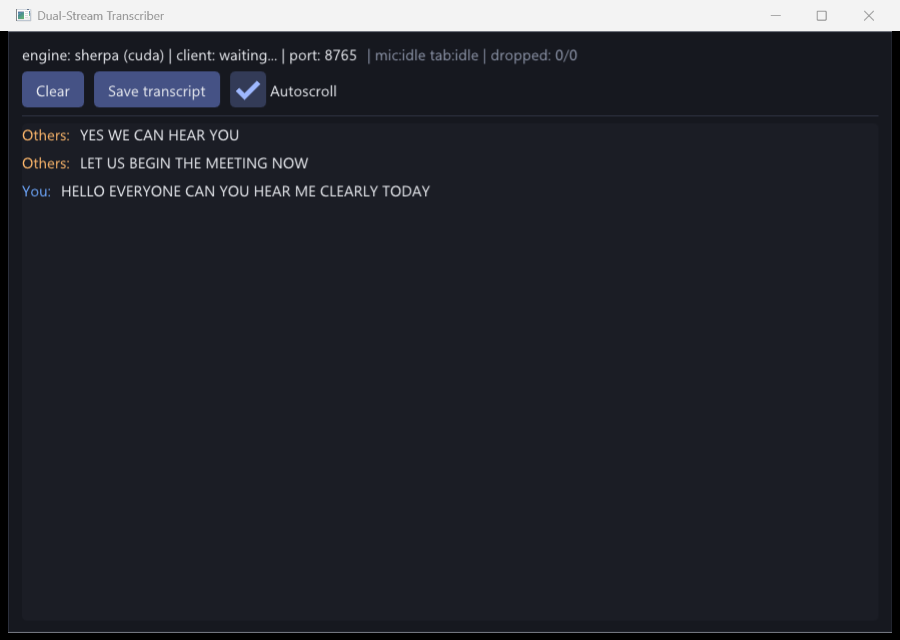
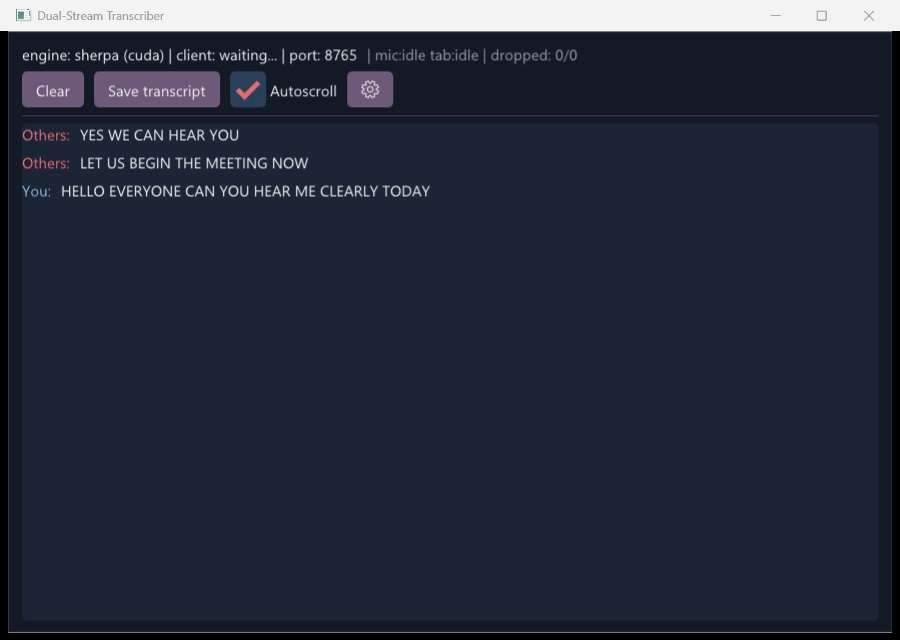
ui: dusk color palette (navy / plum / rose / coral)
User-chosen palette #355070 #6d597a #b56576 #e56b6f with the family
sand #eaac8b for warnings. Role mapping: navy surfaces and input
frames, plum buttons, rose pressed states, coral as the single accent
(checkmark, active states, Others lane); You lane is light navy so the
transcript lanes sit at the palette poles. README screenshot refreshed.

Claude-Session: https://claude.ai/code/session_01TXEqZFsGeUbS3S3m6UJCrM

Changed region(s): [[0.0, 0.0938, 0.3111, 0.2188], [0.3733, 0.0938, 0.4356, 0.1875], [0.0311, 0.25, 0.0622, 0.2812]]

diff --git a/desktop/src/ui/main_window.cpp b/desktop/src/ui/main_window.cpp
@@ -150,25 +150,29 @@ void applyThemeAndFont()
     style.ScrollbarRounding = 5.0f;
     style.ItemSpacing = ImVec2(10.0f, 8.0f);
     style.WindowPadding = ImVec2(14.0f, 12.0f);
-    // Cohesive dark-slate palette with indigo controls, replacing the stock
-    // grey theme. Transcript lane colors (blue/orange) live in runUi().
+    // Dusk palette chosen by the user: navy #355070, plum #6d597a, rose
+    // #b56576, coral #e56b6f (plus the family's sand #eaac8b for warnings).
+    // Role mapping: navy family carries surfaces and input frames, plum
+    // carries buttons, rose is the pressed state, and coral is the single
+    // bright accent (checkmarks, active highlights). Transcript lane colors
+    // live in runUi(): You = light navy, Others = coral.
     ImVec4* colors = style.Colors;
-    colors[ImGuiCol_WindowBg] = ImVec4(0.085f, 0.095f, 0.120f, 1.00f);
-    colors[ImGuiCol_ChildBg] = ImVec4(0.105f, 0.115f, 0.145f, 1.00f);
-    colors[ImGuiCol_Text] = ImVec4(0.92f, 0.93f, 0.95f, 1.00f);
-    colors[ImGuiCol_Border] = ImVec4(0.25f, 0.27f, 0.35f, 0.50f);
-    colors[ImGuiCol_FrameBg] = ImVec4(0.20f, 0.23f, 0.34f, 1.00f);
-    colors[ImGuiCol_FrameBgHovered] = ImVec4(0.26f, 0.30f, 0.44f, 1.00f);
-    colors[ImGuiCol_FrameBgActive] = ImVec4(0.31f, 0.36f, 0.53f, 1.00f);
-    colors[ImGuiCol_Button] = ImVec4(0.27f, 0.32f, 0.52f, 1.00f);
-    colors[ImGuiCol_ButtonHovered] = ImVec4(0.34f, 0.40f, 0.65f, 1.00f);
-    colors[ImGuiCol_ButtonActive] = ImVec4(0.42f, 0.49f, 0.78f, 1.00f);
-    colors[ImGuiCol_CheckMark] = ImVec4(0.62f, 0.72f, 1.00f, 1.00f);
-    colors[ImGuiCol_Separator] = ImVec4(0.25f, 0.27f, 0.35f, 0.60f);
-    colors[ImGuiCol_ScrollbarBg] = ImVec4(0.085f, 0.095f, 0.120f, 1.00f);
-    colors[ImGuiCol_ScrollbarGrab] = ImVec4(0.28f, 0.31f, 0.42f, 1.00f);
-    colors[ImGuiCol_ScrollbarGrabHovered] = ImVec4(0.36f, 0.40f, 0.55f, 1.00f);
-    colors[ImGuiCol_ScrollbarGrabActive] = ImVec4(0.44f, 0.50f, 0.70f, 1.00f);
+    colors[ImGuiCol_WindowBg] = ImVec4(0.075f, 0.102f, 0.149f, 1.00f);   // Darkened navy.
+    colors[ImGuiCol_ChildBg] = ImVec4(0.106f, 0.145f, 0.212f, 1.00f);    // Navy panel.
+    colors[ImGuiCol_Text] = ImVec4(0.941f, 0.933f, 0.949f, 1.00f);
+    colors[ImGuiCol_Border] = ImVec4(0.427f, 0.349f, 0.478f, 0.45f);     // Plum, translucent.
+    colors[ImGuiCol_FrameBg] = ImVec4(0.165f, 0.251f, 0.353f, 1.00f);    // Muted navy.
+    colors[ImGuiCol_FrameBgHovered] = ImVec4(0.208f, 0.314f, 0.439f, 1.00f);  // #355070.
+    colors[ImGuiCol_FrameBgActive] = ImVec4(0.247f, 0.376f, 0.541f, 1.00f);
+    colors[ImGuiCol_Button] = ImVec4(0.427f, 0.349f, 0.478f, 1.00f);        // #6d597a.
+    colors[ImGuiCol_ButtonHovered] = ImVec4(0.502f, 0.412f, 0.565f, 1.00f);
+    colors[ImGuiCol_ButtonActive] = ImVec4(0.710f, 0.396f, 0.463f, 1.00f);  // #b56576.
+    colors[ImGuiCol_CheckMark] = ImVec4(0.898f, 0.420f, 0.435f, 1.00f);     // #e56b6f.
+    colors[ImGuiCol_Separator] = ImVec4(0.427f, 0.349f, 0.478f, 0.55f);
+    colors[ImGuiCol_ScrollbarBg] = ImVec4(0.075f, 0.102f, 0.149f, 1.00f);
+    colors[ImGuiCol_ScrollbarGrab] = ImVec4(0.243f, 0.278f, 0.396f, 1.00f);
+    colors[ImGuiCol_ScrollbarGrabHovered] = ImVec4(0.427f, 0.349f, 0.478f, 1.00f);
+    colors[ImGuiCol_ScrollbarGrabActive] = ImVec4(0.710f, 0.396f, 0.463f, 1.00f);
     // Replace ImGui's 13px bitmap default with a larger, softer system font.
     // Segoe UI Variable (Win11) first, classic Segoe UI as fallback; if
     // neither loads (non-standard Windows install), scale the bitmap default
@@ -263,9 +267,11 @@ int runUi(Pipeline& pipeline, TranscriptModel& model, ISttEngine& engine, const 
     ImGui_ImplWin32_Init(hwnd);
     ImGui_ImplDX11_Init(g_device, g_context);
 
-    const ImVec4 micColor(0.43f, 0.66f, 1.0f, 1.0f);   // Blue - You.
-    const ImVec4 tabColor(1.0f, 0.72f, 0.42f, 1.0f);   // Orange - Others.
-    const ImVec4 dimColor(0.55f, 0.58f, 0.66f, 1.0f);  // Slate-tinted secondary text.
+    // Lane colors are the palette's cool and warm poles: You speaks in light
+    // navy (derived from #355070), Others in coral #e56b6f.
+    const ImVec4 micColor(0.561f, 0.706f, 0.863f, 1.0f);  // Light navy - You.
+    const ImVec4 tabColor(0.898f, 0.420f, 0.435f, 1.0f);  // Coral - Others.
+    const ImVec4 dimColor(0.616f, 0.576f, 0.659f, 1.0f);  // Plum-grey secondary text.
     const ImVec4 errColor(1.0f, 0.4f, 0.4f, 1.0f);
     bool autoscroll = true;
     std::string saveStatus;        // Empty when nothing to report.
@@ -399,7 +405,7 @@ int runUi(Pipeline& pipeline, TranscriptModel& model, ISttEngine& engine, const 
         ImGui::End();
 
         ImGui::Render();
-        const float clear[4] = {0.085f, 0.095f, 0.120f, 1.0f};  // Match WindowBg.
+        const float clear[4] = {0.075f, 0.102f, 0.149f, 1.0f};  // Match WindowBg.
         g_context->OMSetRenderTargets(1, &g_rtv, nullptr);
         g_context->ClearRenderTargetView(g_rtv, clear);
         ImGui_ImplDX11_RenderDrawData(ImGui::GetDrawData());
@@ -445,8 +451,8 @@ bool runSetupUi(Config& cfg)
     ImGui_ImplWin32_Init(hwnd);
     ImGui_ImplDX11_Init(g_device, g_context);
 
-    const ImVec4 dimColor(0.55f, 0.58f, 0.66f, 1.0f);
-    const ImVec4 warnColor(1.0f, 0.75f, 0.35f, 1.0f);
+    const ImVec4 dimColor(0.616f, 0.576f, 0.659f, 1.0f);  // Plum-grey secondary text.
+    const ImVec4 warnColor(0.918f, 0.675f, 0.545f, 1.0f);  // Sand #eaac8b - warnings.
     // API key entry for Deepgram. Pre-filled from a previously saved key so
     // the field doubles as "view/replace" on later Settings visits. Kept
     // masked by default; the checkbox reveals it for verifying a paste.
@@ -547,7 +553,7 @@ bool runSetupUi(Config& cfg)
         ImGui::End();
 
         ImGui::Render();
-        const float clear[4] = {0.085f, 0.095f, 0.120f, 1.0f};  // Match WindowBg.
+        const float clear[4] = {0.075f, 0.102f, 0.149f, 1.0f};  // Match WindowBg.
         g_context->OMSetRenderTargets(1, &g_rtv, nullptr);
         g_context->ClearRenderTargetView(g_rtv, clear);
         ImGui_ImplDX11_RenderDrawData(ImGui::GetDrawData());
